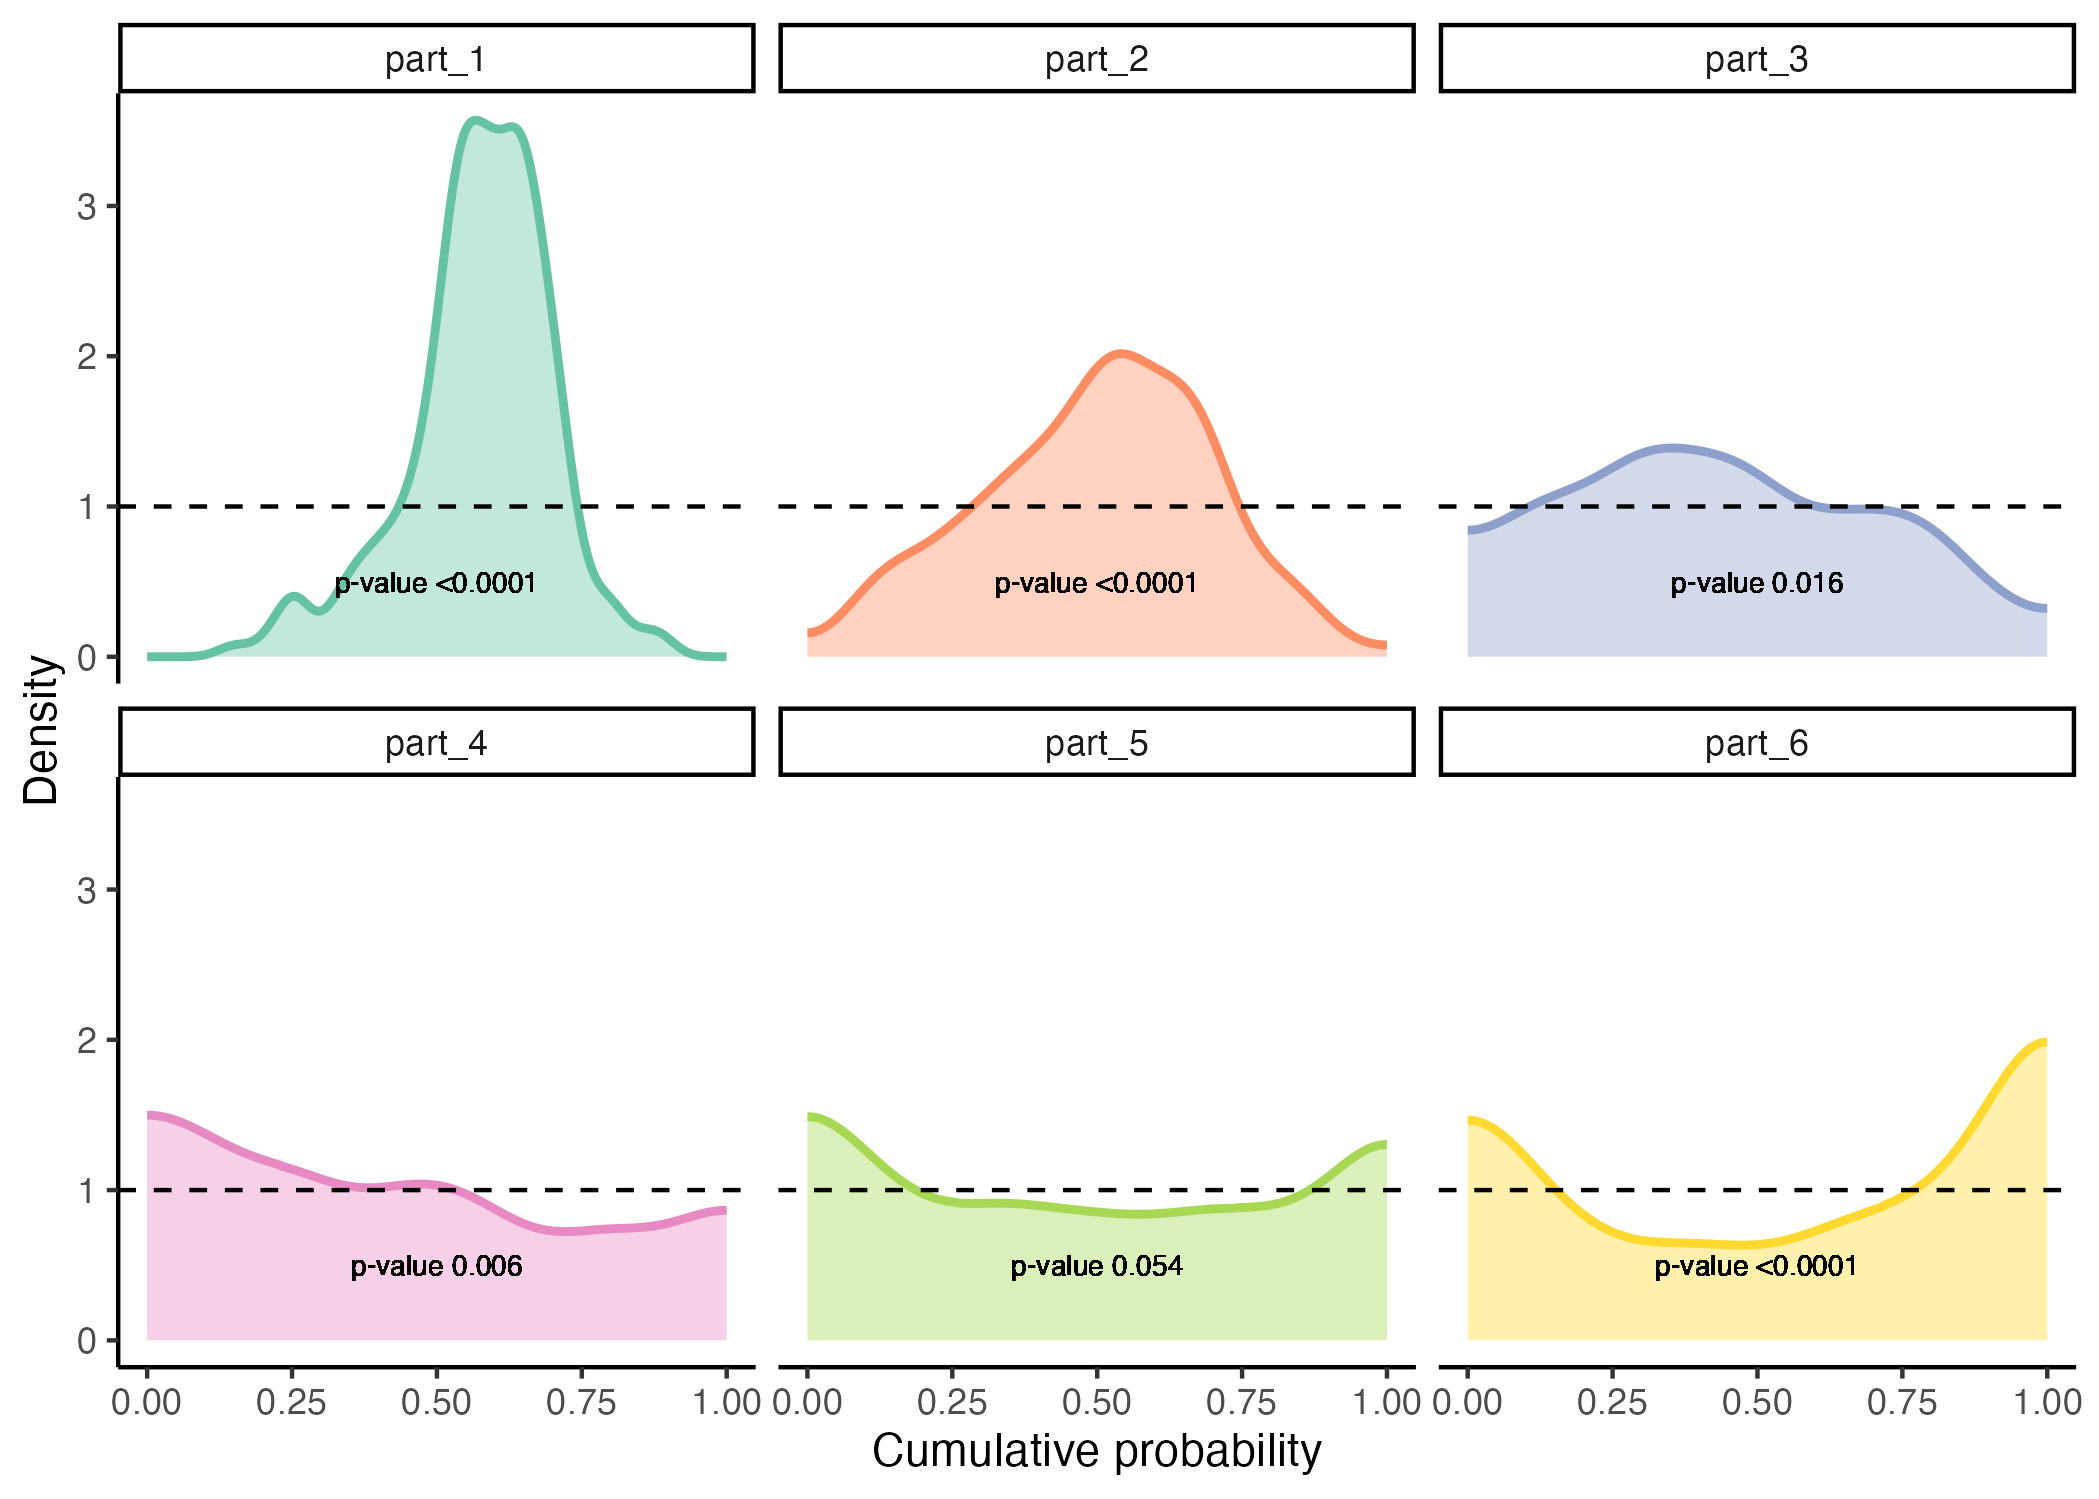
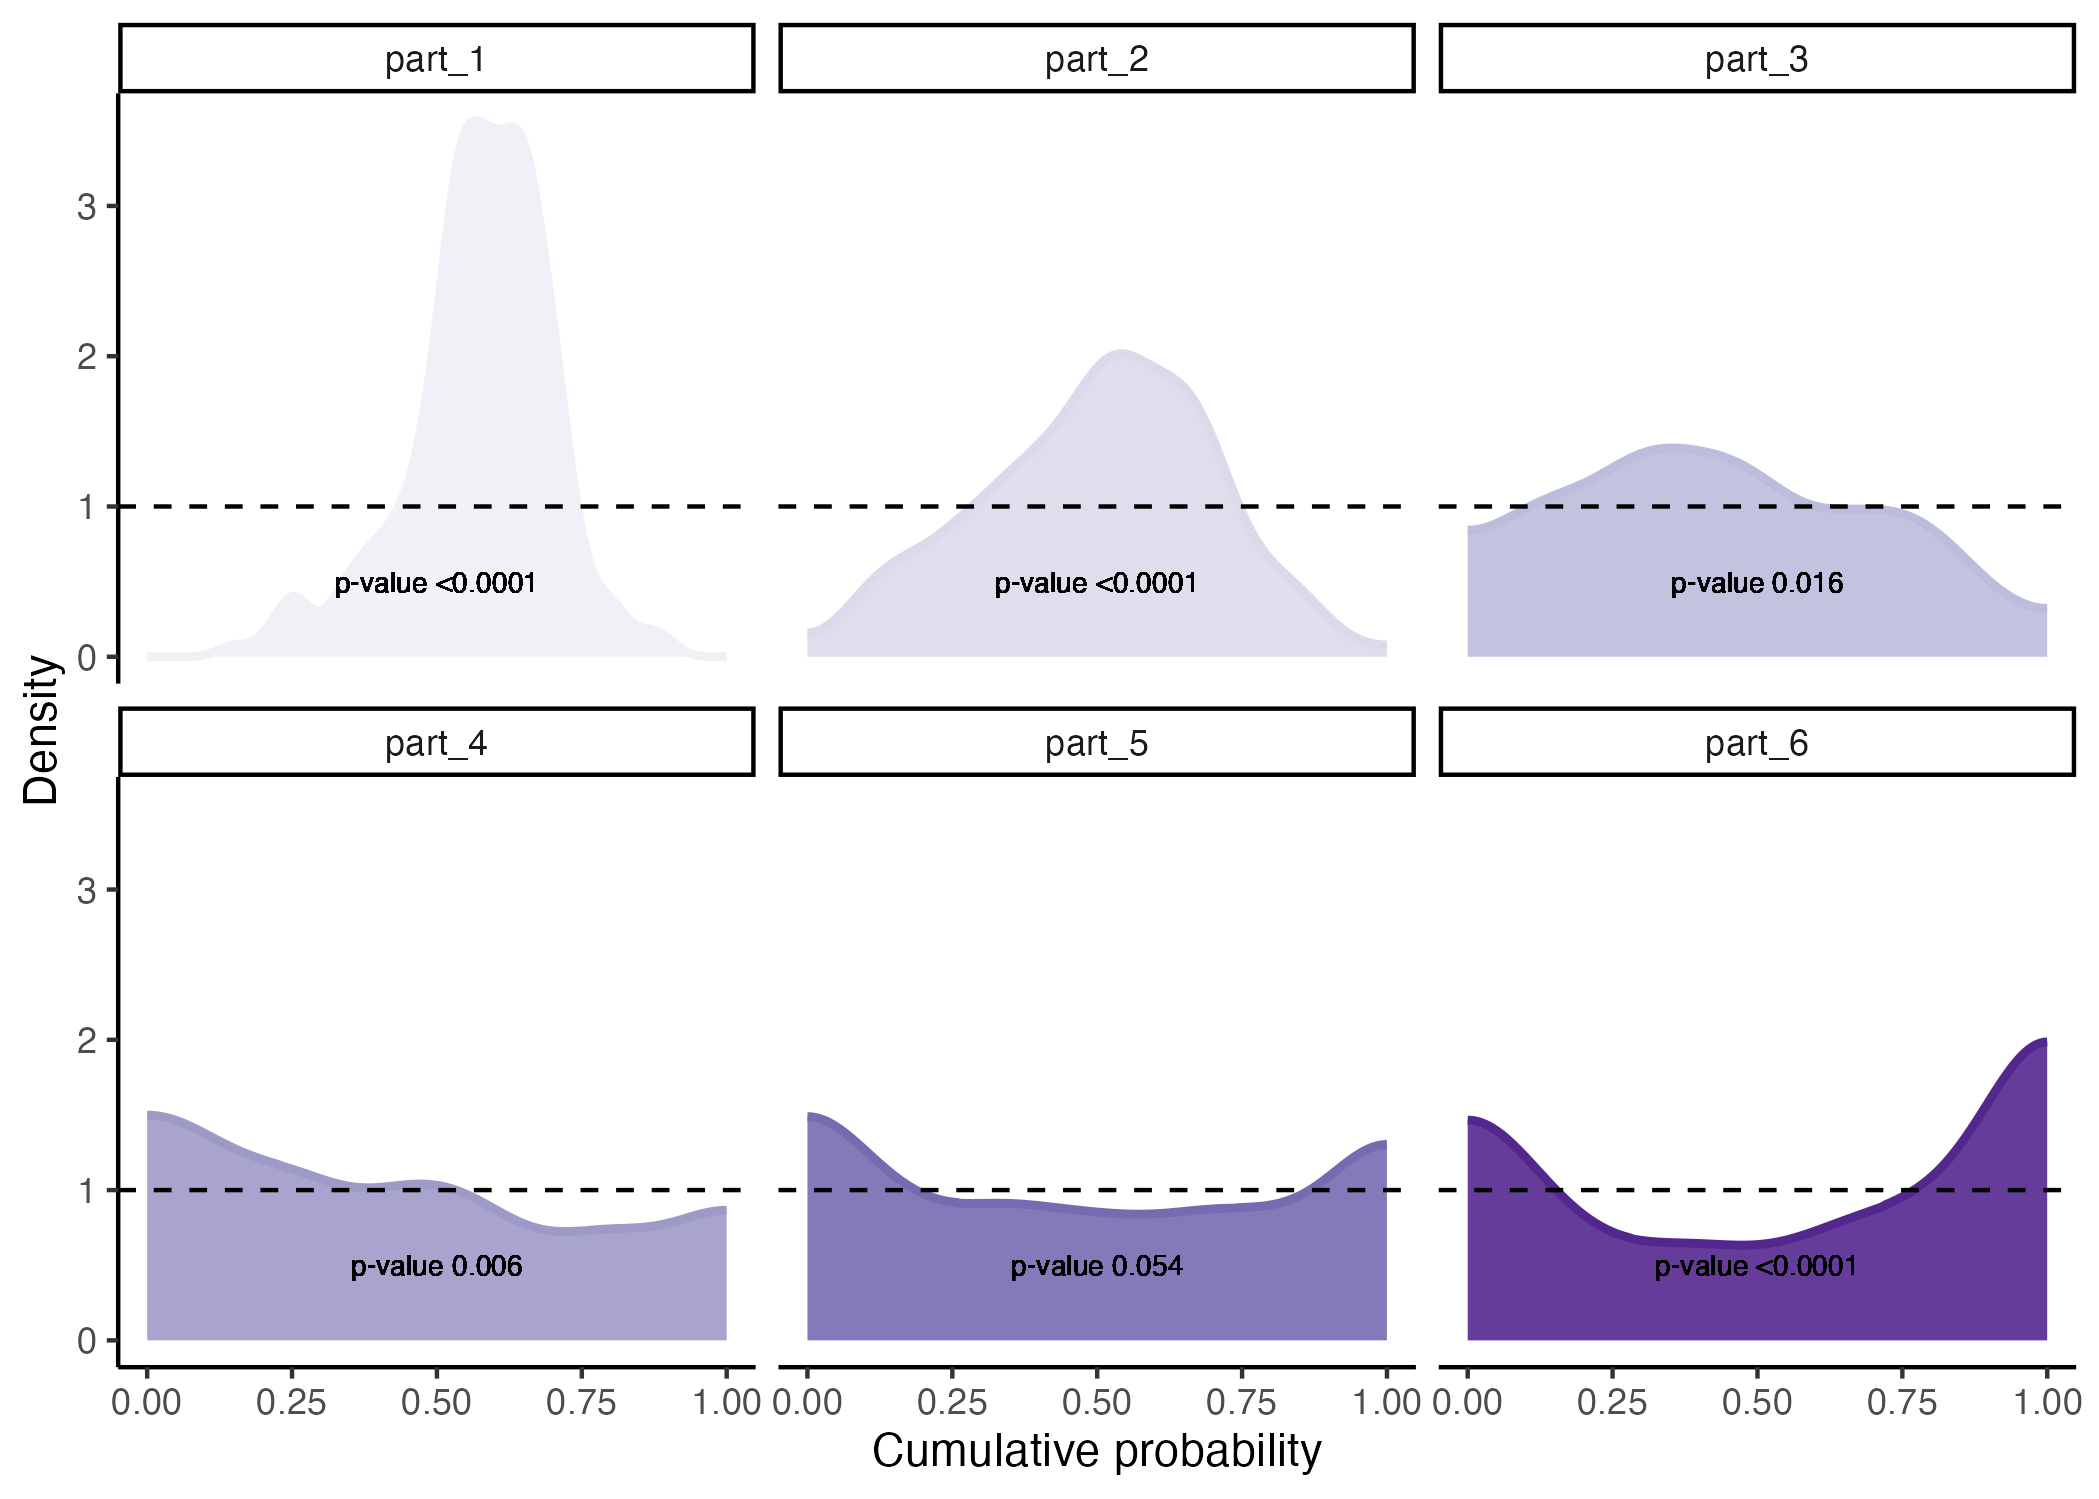
melhorando readme

diff --git a/README.md b/README.md
@@ -30,16 +30,6 @@ download.
 ``` r
 if(!require(pacman)) install.packages("pacman")
 pacman::p_load_current_gh("cmusso86/recalibratiNN")
-#> 
-#> ── R CMD build ─────────────────────────────────────────────────────────────────
-#>      checking for file ‘/private/var/folders/rp/h9_9qkdd7c57z9_hytk4306h0000gn/T/RtmplqcwDW/remotes1530f6b568a59/cmusso86-recalibratiNN-731320d/DESCRIPTION’ ...  ✔  checking for file ‘/private/var/folders/rp/h9_9qkdd7c57z9_hytk4306h0000gn/T/RtmplqcwDW/remotes1530f6b568a59/cmusso86-recalibratiNN-731320d/DESCRIPTION’
-#>   ─  preparing ‘recalibratiNN’:
-#>    checking DESCRIPTION meta-information ...  ✔  checking DESCRIPTION meta-information
-#>   ─  checking for LF line-endings in source and make files and shell scripts
-#>   ─  checking for empty or unneeded directories
-#>   ─  building ‘recalibratiNN_0.0.0.9000.tar.gz’
-#>      
-#> 
 ```
 
 ## Understanding calibration/miscalibration
@@ -90,7 +80,7 @@ underestimates the mean for both small values of x or greater values of
 x. Furthermore, the linear model overestimates de variance for lower
 values of x (all points fell within tha IC). On the other hand, for
 higher values, the model is under estimating the true variance. Thus,
-you cannot correctly quantify your uncertainty. This is an example of
+you cannot correctly quantify your uncertainty. This is an example of a
 miscalibrated model.
 
 ``` r
@@ -120,18 +110,40 @@ data_predict %>%
 
 <img src="man/figures/disp.png" width="80%" style="display: block; margin: auto;" />
 
+## Using the recalibratiNN package
+
+With real data, and specially with higher dimention models, we will not
+be able to evaluate miscalibration the way we described above. In this
+sense, one commonly employed strategy for analyzing global calibration
+is the examination of the histogram of Probability Integral Transform
+(PIT) values. PIT values represent the estimated cumulative probability
+in the predicted distribution for each observed value. This technique
+involves constructing a histogram/density plot of the cumulative
+distribution functions estimated by the model applied to each
+corresponding observation. If the model is well specified, this
+distribution will approach the Uniform distribution.
+
+### Observing global calibration/miscalibration
+
 Using the fuction `PIT_values()` function to obtain pit-values for the
-fitted model for a calibration set.
+fitted model for a calibration set. To do so, we first calcultae some
+values that the PIT_values() function will require, such as the
+predicted values, prof the fitted model, to new observations. Then the
+Meas Squared Erros of the calibration (or the validation set that we
+will call here “calibration set”).
 
 ``` r
+library(recalibratiNN)
+
 # predictions for the calibraion set
 y_hat <- predict(model, 
-                 data.frame(x_train=x_cal))
+                 data.frame(x_train = x_cal))
 
 # MSE from calibration set
-MSE_cal <- mean((y_hat - y_cal)^2)
+MSE_cal <- mean((y_hat - y_cal)^2) # a little different from MSE from training set
 
-# pit-values for calibration set
+# USE tha recalibratiNN::PIT_local() to calculate the pit-values.
+
 pit <- PIT_global(ycal=y_cal, 
                   yhat=y_hat, 
                   mse=MSE_cal)
@@ -141,7 +153,8 @@ head(pit)
 ```
 
 Then, one can proceed with visualizing this the histogram and testing if
-it fits a uniform distribution.
+it fits a uniform distribution using `gg_PIT_global()`. Refer to the
+documentation to learn other oarameters for customization.
 
 ``` r
 gg_PIT_global(pit)
@@ -150,14 +163,15 @@ gg_PIT_global(pit)
 <img src="man/figures/ggP.png" width="80%" style="display: block; margin: auto;" />
 
 In this case, since we are fiting an lm() to an heterocedastic model,
-the histogram seems shifted indication a misscalibration. In the image
-we also present the p_value from the hispothesis testing of
+the histogram show clear indication a misscalibration. In the image we
+also present the p_value from the hispothesis testing of
 Kolmogorov-Smirnov test, performed with the `ks.test()` function from
 `stats` package.
 
-One can also want to visualize the miscalibration as QQ-plot-like graph,
-showing the cumulative predictive distribution in the x-axis versus the
-empirical cumulative distribution.
+It is also to use other visualization function of the package with the
+`gg_QQ_global`. This graph shows the cumulative predictive distribution
+in the x-axis versus the empirical cumulative distribution and require
+four parameters.
 
 ``` r
 gg_QQ_global(pit,
@@ -170,6 +184,19 @@ gg_QQ_global(pit,
 
 #### Local Calibration
 
+However, global calibration can be misleading. A model can look
+calibrated globally, but can show drastic problems locally. For
+instance, the presented model shows a coverage of nearly 95%, which is
+what was expected in a 95% confidence interval. However, locally we see
+that this spread of “errors” is not uniform, that is, there are regions
+the model systematically makes more mistake.
+
+This is observed in the graphs bellow. First, one needs to calculate
+local pit-values with `PIT_local()` function. This function partitions
+the covariate spaces in n clusters (the default is 6) with a k-means
+algorithm and then search for neighbours to the centroids of each
+cluster.
+
 ``` r
 # calculating local PIT 
 pit_local <- PIT_local(xcal = x_cal, 
@@ -180,14 +207,19 @@ pit_local <- PIT_local(xcal = x_cal,
 gg_PIT_local(pit_local)
 ```
 
-We notice the model is uncalibrated in different ways thoughout the
-covariates space.
+Observing this graph, we notice the model is uncalibrated in different
+ways thoughout the covariates space.
+
 <img src="man/figures/plot1PL.png" width="80%" style="display: block; margin: auto;" />
 
-Or you can facet the graph:
+Or you can facet the graph, and include ther customizations. Please
+refer to documentation to learn more.
 
 ``` r
-gg_PIT_local(pit_local, facet=T)
+gg_PIT_local(pit_local, 
+             pal="Purples",
+             alpha=0.9,
+             facet=T)
 ```
 
 In the first part, the model is overestimating the variance and
@@ -198,7 +230,7 @@ partition behaves differently.
 
 <img src="man/figures/plot2PL.png" width="80%" style="display: block; margin: auto;" />
 
-Alternatively you can observe the miscalibration in the QQ-graph.
+Alternatively you can observe the local miscalibration in the QQ-graph.
 
 ``` r
 gg_QQ_local(pit_local)
@@ -209,23 +241,28 @@ gg_QQ_local(pit_local, facet=T)
 
 # Recalibration
 
-The recalibration is performed with the `recalibrate()` function. Tho
-this date, the function only provides one method (Torres et al. , 2023),
-which is inspired in the Aproximate Bayesian Computation. This method
-can be either applied globbaly or locally. In this heterocedastic
-example you will see the local calibration performs better. The local
-calibration uses a KNN algorithm to serach for neighbors from the
-calibration set that are the nearest to the new/test set provided.
+The quantile recalibration will generate Monte Carlo samples of an
+unknown (but more calibrated) predictive distribution. It will also
+provide recalibrated weighted mean and variance.
+
+The `recalibrate()` function is an implementation of the method
+described by Torres et al. (2023), which is inspired in the Aproximate
+Bayesian Computation. This method can be either applied globally or
+locally. In this heterocedastic example you will see the local
+calibration performs better. The local calibration uses a KNN algorithm
+to search for neighbors from the calibration set that are the nearest to
+the new/test set provided.
 
 To perform recalibration you will need to provide the pit-values (always
 the global pit-values, regardless of the type of recalibration) and the
 Mean Squared Error of the calibration set. The search for new neighbors
 can be performed in the covariates level, of any intermediate layer (in
-case of a Neural network) or even the output layer. Than the method will
-calculate the pit-values and use the Inverse Transform Theorem to
-produce recalibrated samples. The size of the vicinity is set to be 10%
-of the calibration set, but you can custom it with the p_neighbours
-argument.
+case of a Neural network) or even the output layer.
+
+The function will then calculate the pit-values and use the Inverse
+Transform Theorem to produce recalibrated samples. The size of the
+vicinity is set to be 10% of the calibration set, but you can custom it
+with the p_neighbours argument.
 
 ``` r
 # new data 
@@ -245,10 +282,10 @@ rec <- recalibrate(yhat_new=y_hat_new,
                    p_neighbours=0.2)
 ```
 
-Because in this artifitial example we know the true model/process that
-generated this data, so we can calucale the empirical pit-values and
+Because in this artificial example we know the true model/process that
+generated this data, so we can calculate the empirical pit-values and
 verify if the predictions are now better calibrated. Notice that is an
-exercice and in real life you probably wont be able to do so, unless you
+exercise and in real life you probably wont be able to do so, unless you
 chose to look ate you test set.
 
 ``` r
@@ -271,4 +308,9 @@ gg_PIT_global(pit_new)
 
 <img src="man/figures/README-unnamed-chunk-22-1.png" width="80%" style="display: block; margin: auto;" />
 
-We see now that the pit-values are aproximatedly uniform.
+We see now that the pit-values are aproximatedly uniform, at least
+globally. However, we will se the local calibration is also improved.
+
+``` r
+#gg_PIT_local(PIT_local()
+```
